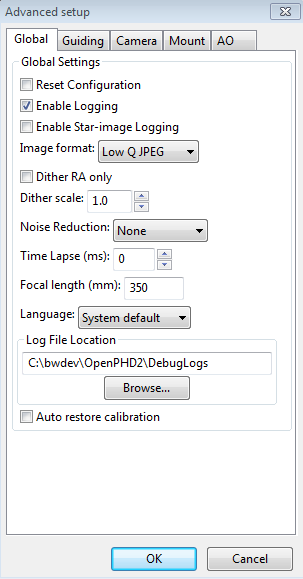
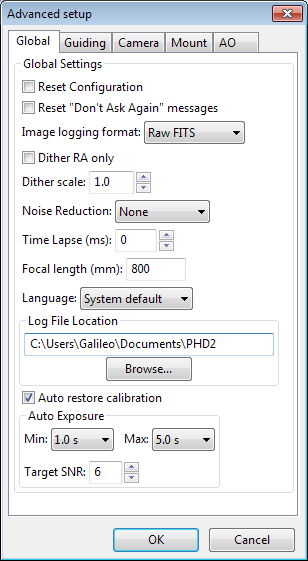
help file update (Fixes Issue 288)

diff --git a/help/Advanced_settings.htm b/help/Advanced_settings.htm
@@ -109,6 +109,24 @@ used in the <span style="font-style: italic;">PHD2</span> user interface, subjec
 as the equipment is connected. &nbsp;Be sure to read the 'Auto
 calibration' section of the help file to understand the implications
 and potential risks of doing this.</li>
+<li><a name="Auto_exposure_settings"></a>'Auto Exposure' - these are the settings that control Auto exposure time.</li>
+<ul>
+<li>Min Exposure - the minimum exposure time. PHD2 will not set the exposure time
+less than this value, even if the guide star SNR is higher than the target SNR value.
+If the min exposure time is set too low, you could end up sending excessive small
+corrections to the mount which may not give the best guiding results. Users with AO
+units would want to set this to a lower value, since rapid small corrections are often
+desirable with an AO.</li>
+<li>Max Exposure - the maximum exposure time. Before a guide star is selected, PHD2
+will set the exposure time to the maximum value. Once a guide star is selected, PHD2
+will then incrementally decrease the exposure time until the desired SNR is reached.</li>
+<li>Target SNR - this is the average SNR value that PHD2 will attempt to achieve
+by adjusting the exposure time. SNR can fluctuate from frame to frame even with a
+fixed exposure duration, so be sure to account for that when choosing a target SNR
+value. PHD2 will reject frames when SNR drops below 3.0. The default value of 6.0
+should provide enough of a cushion to prevent fluctuations from causing the SNR to
+go below 3.0.</li>
+</ul>
 </ul>
 <h3><a name="Guiding_Tab"></a>Guiding Tab</h3>
 <img style="width: 304px; height: 579px;" alt="" src="Advanced_guiding.png"><br>

diff --git a/help/Basic_use.htm b/help/Basic_use.htm
@@ -192,7 +192,14 @@ to experiment to understand what works best for your situation.
 &nbsp;</li>
 </ol>
 As a starting point,&nbsp;try using exposure durations in the range
-of one to five seconds.
+of one to five seconds.<br>
+<br>
+There is also an Auto exposure time selection available. When exposure
+is set to Auto, PHD2 will attempt to adjust the exposure to keep the
+selected guide star at a constant signal-to-noise ratio (SNR) value.
+The Auto setting can be especially beneficial for AO users who want to
+minimize exposure time without losing the guide star. The settings to control
+Auto-exposure are on the <a href="Advanced_settings.htm#Global_Tab">Global Tab</a> of the Advanced Dialog.
 <h3><a name="Automatic_Calibration"></a>Automatic
 Calibration</h3>
 <h4>Conventional Mounts</h4>
